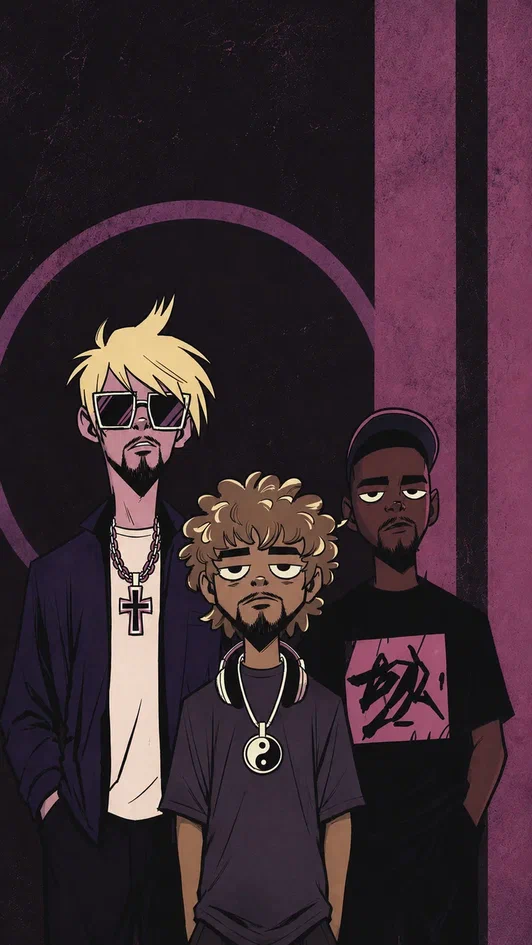
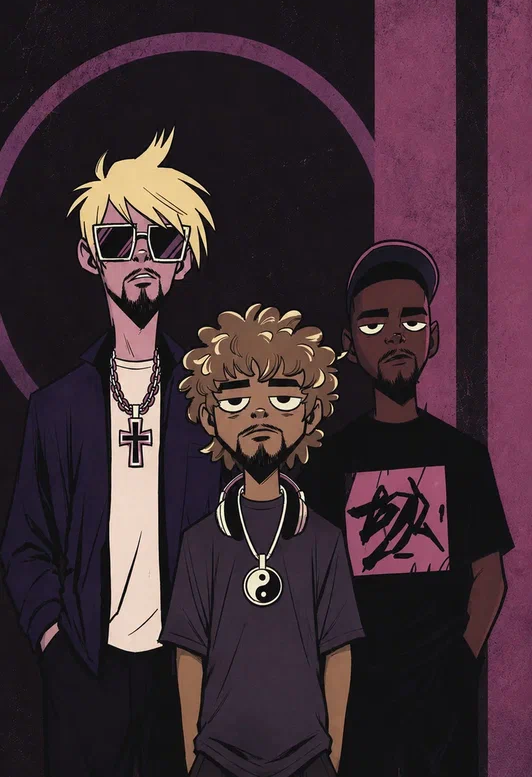
Rework player: ghost btn on hero cover, progress bar, fix Yandex label

diff --git a/index.html b/index.html
@@ -193,7 +193,7 @@
 
     .hero-cover {
       width: 100%; height: 100%;
-      object-fit: cover; object-position: top center;
+      object-fit: cover; object-position: center 30%;
       display: block;
     }
 
@@ -203,6 +203,31 @@
       background: linear-gradient(to right, var(--bg) 0%, transparent 35%),
                   linear-gradient(to top, var(--bg) 0%, transparent 25%);
     }
+
+    /* play button on cover */
+    .hero-play-wrap {
+      position: absolute; inset: 0; z-index: 10;
+      display: flex; align-items: center; justify-content: center;
+    }
+    .hero-play-btn {
+      width: 76px; height: 76px; border-radius: 50%;
+      background: rgba(255,255,255,0.08);
+      border: 2px solid rgba(255,255,255,0.55);
+      backdrop-filter: blur(6px);
+      cursor: pointer;
+      display: flex; align-items: center; justify-content: center;
+      transition: background .3s, border-color .3s, transform .25s, box-shadow .35s;
+    }
+    .hero-play-btn:hover {
+      background: rgba(255,255,255,0.16);
+      border-color: rgba(255,255,255,.9);
+      transform: scale(1.1);
+      box-shadow: 0 0 50px var(--glow);
+    }
+    .hero-play-btn svg { fill: #fff; width: 30px; height: 30px; }
+    .hero-play-btn .icon-pause { display: none; }
+    .hero-play-btn.playing .icon-play  { display: none; }
+    .hero-play-btn.playing .icon-pause { display: block; }
 
     .scroll-hint {
       position: absolute; bottom: 32px; left: 50%; transform: translateX(-50%);
@@ -288,55 +313,53 @@
     .p-vk      { --pc:#4a76a8; --pr:74,118,168;  }
     .p-apple   { --pc:#fa243c; --pr:250,36,60;   }
 
-    /* ─── VISUALIZER ─── */
-    #vis {
-      padding: 70px 0;
-      border-top: 1px solid var(--gb);
+    /* ─── PLAYER BAR ─── */
+    #player-section {
       border-bottom: 1px solid var(--gb);
-      text-align: center; position: relative; overflow: hidden;
     }
-    #vis::before {
-      content: ''; position: absolute; inset: 0;
-      background: radial-gradient(ellipse at 50% 50%, rgba(176,48,184,.05) 0%, transparent 65%);
+    .player-bar-wrap {
+      max-width: 1080px; margin: 0 auto;
+      padding: 18px 48px 20px;
     }
-    #vis-bars {
-      display: flex; align-items: flex-end; justify-content: center;
-      gap: 3px; height: 56px; margin: 0 auto 30px;
-      position: relative; z-index: 1;
+    @media (max-width: 600px) { .player-bar-wrap { padding: 14px 24px 16px; } }
+
+    .player-bar-head {
+      display: flex; align-items: center; justify-content: space-between;
+      margin-bottom: 10px;
     }
-    .vbar {
-      width: 4px; border-radius: 2px 2px 0 0;
-      background: var(--accent); opacity: .65; height: 4px;
+    .player-label {
+      font-size: 10px; font-weight: 600; letter-spacing: 4px;
+      text-transform: uppercase; color: var(--accent);
     }
-    .vbar.on {
-      animation: barBounce var(--d,.7s) ease-in-out infinite alternate;
+    .player-times {
+      font-size: 11px; color: var(--muted);
+      font-variant-numeric: tabular-nums; letter-spacing: 1px;
+      display: flex; gap: 4px;
     }
+    .slash { opacity: .3; }
+
+    .progress-wrap {
+      height: 3px; background: rgba(255,255,255,.08);
+      cursor: pointer; position: relative;
+    }
+    .progress-fill {
+      height: 100%; background: var(--accent); width: 0%;
+      transition: width .1s linear; pointer-events: none;
+    }
+    .progress-wrap:hover .progress-fill { background: #fff; }
+
+    .player-vis {
+      display: flex; align-items: flex-end; gap: 3px;
+      height: 24px; margin-top: 12px;
+    }
+    .pv-bar {
+      width: 3px; border-radius: 2px 2px 0 0;
+      background: var(--accent); height: 3px; opacity: .45;
+    }
+    .pv-bar.on { animation: barBounce var(--d,.7s) ease-in-out infinite alternate; }
     @keyframes barBounce {
-      from { height: 4px; opacity: .3; }
-      to   { height: var(--h,36px); opacity: .95; }
-    }
-    .btn-play {
-      display: inline-flex; align-items: center; gap: 12px;
-      padding: 13px 36px;
-      border: 1px solid var(--gb); background: var(--glass);
-      color: var(--text); font-family: 'Space Grotesk', sans-serif;
-      font-size: 11px; font-weight: 600; letter-spacing: 4px;
-      text-transform: uppercase; cursor: pointer;
-      backdrop-filter: blur(12px); position: relative; z-index: 1;
-      transition: border-color .3s, box-shadow .35s, color .3s;
-    }
-    .btn-play:hover {
-      border-color: var(--accent);
-      box-shadow: 0 0 36px var(--glow);
-      color: var(--accent);
-    }
-    .pdot {
-      width: 7px; height: 7px; background: var(--accent); border-radius: 50%;
-      animation: pdotPulse 1.6s ease-in-out infinite; flex-shrink: 0;
-    }
-    @keyframes pdotPulse {
-      0%,100%{ transform:scale(1); opacity:1;    }
-      50%    { transform:scale(1.8); opacity:.35; }
+      from { height: 3px; opacity: .2; }
+      to   { height: var(--h,18px); opacity: .8; }
     }
 
     /* ─── ANNOUNCEMENTS ─── */
@@ -504,26 +527,6 @@
     }
     .btn-s-close:hover { color: var(--text); }
 
-    /* ─── SOUND BUTTON ─── */
-    #sound-btn {
-      position: fixed; bottom: 28px; right: 28px; z-index: 8000;
-      width: 44px; height: 44px;
-      background: var(--glass); border: 1px solid var(--gb);
-      backdrop-filter: blur(14px);
-      display: flex; align-items: center; justify-content: center;
-      cursor: pointer; transition: border-color .3s, box-shadow .3s;
-      opacity: 0; animation: fadeIn 1s 2s forwards;
-    }
-    #sound-btn:hover {
-      border-color: var(--accent);
-      box-shadow: 0 0 24px var(--glow);
-    }
-    #sound-btn svg { width: 18px; height: 18px; fill: rgba(240,236,228,.6); transition: fill .25s; }
-    #sound-btn:hover svg { fill: var(--text); }
-    #sound-btn.muted svg.icon-on  { display: none;  }
-    #sound-btn.muted svg.icon-off { display: block; }
-    #sound-btn:not(.muted) svg.icon-on  { display: block; }
-    #sound-btn:not(.muted) svg.icon-off { display: none;  }
 
     /* ─── UTILS ─── */
     @keyframes up     { to { opacity:1; transform:translateY(0); } }
@@ -541,20 +544,7 @@
 <!-- Film grain -->
 <canvas id="grain"></canvas>
 
-<!-- Background audio -->
-<audio id="bg-audio" src="musik/theme.mp3" loop preload="auto"></audio>
-
-<!-- Sound toggle -->
-<button id="sound-btn" class="muted" aria-label="Toggle sound">
-  <!-- sound on -->
-  <svg class="icon-on" viewBox="0 0 24 24" xmlns="http://www.w3.org/2000/svg">
-    <path d="M3 9v6h4l5 5V4L7 9H3zm13.5 3c0-1.77-1.02-3.29-2.5-4.03v8.05c1.48-.73 2.5-2.25 2.5-4.02zM14 3.23v2.06c2.89.86 5 3.54 5 6.71s-2.11 5.85-5 6.71v2.06c4.01-.91 7-4.49 7-8.77s-2.99-7.86-7-8.77z"/>
-  </svg>
-  <!-- sound off -->
-  <svg class="icon-off" viewBox="0 0 24 24" xmlns="http://www.w3.org/2000/svg">
-    <path d="M16.5 12c0-1.77-1.02-3.29-2.5-4.03v2.21l2.45 2.45c.03-.2.05-.41.05-.63zm2.5 0c0 .94-.2 1.82-.54 2.64l1.51 1.51C20.63 14.91 21 13.5 21 12c0-4.28-2.99-7.86-7-8.77v2.06c2.89.86 5 3.54 5 6.71zM4.27 3L3 4.27 7.73 9H3v6h4l5 5v-6.73l4.25 4.25c-.67.52-1.42.93-2.25 1.18v2.06c1.38-.31 2.63-.95 3.69-1.81L19.73 21 21 19.73l-9-9L4.27 3zM12 4L9.91 6.09 12 8.18V4z"/>
-  </svg>
-</button>
+<audio id="player-audio" src="musik/theme.mp3" preload="auto"></audio>
 
 <!-- ═══ NAV ═══ -->
 <nav id="nav">
@@ -586,6 +576,12 @@
 
   <div class="hero-right">
     <img src="Image/cover.png" alt="TheЦех" class="hero-cover">
+    <div class="hero-play-wrap">
+      <button class="hero-play-btn" id="play-btn" aria-label="Play / Pause">
+        <svg class="icon-play" viewBox="0 0 24 24"><path d="M8 5v14l11-7z"/></svg>
+        <svg class="icon-pause" viewBox="0 0 24 24"><path d="M6 19h4V5H6v14zm8-14v14h4V5h-4z"/></svg>
+      </button>
+    </div>
   </div>
 
   <div class="scroll-hint"><span></span></div>
@@ -615,7 +611,7 @@
         </div>
         <div class="pcard-info">
           <span class="pcard-name">Яндекс Музыка</span>
-          <span class="pcard-desc">Слушать в России</span>
+          <span class="pcard-desc">Слушать на Яндекс</span>
         </div>
         <span class="pcard-arr">→</span>
       </a>
@@ -645,13 +641,22 @@
   </div>
 </section>
 
-<!-- ═══ VISUALIZER ═══ -->
-<section id="vis">
-  <div id="vis-bars"></div>
-  <button class="btn-play" id="btn-play">
-    <span class="pdot"></span>
-    <span id="btn-play-txt">Play Snippet</span>
-  </button>
+<!-- ═══ PLAYER PROGRESS ═══ -->
+<section id="player-section">
+  <div class="player-bar-wrap">
+    <div class="player-bar-head">
+      <span class="player-label">TheЦех — postaralis</span>
+      <div class="player-times">
+        <span id="time-cur">0:00</span>
+        <span class="slash">/</span>
+        <span id="time-dur">—</span>
+      </div>
+    </div>
+    <div class="progress-wrap" id="progress-wrap">
+      <div class="progress-fill" id="progress-fill"></div>
+    </div>
+    <div class="player-vis" id="player-vis"></div>
+  </div>
 </section>
 
 <!-- ═══ ANNOUNCEMENTS ═══ -->
@@ -727,14 +732,14 @@
   <div class="section-wrap">
     <div class="tg-card reveal">
       <span class="tg-star">✦</span>
-      <p class="tg-badge">Private Zone</p>
+      <p class="tg-badge">Закрытая зона</p>
       <h3 class="tg-heading">Telegram Fan Zone</h3>
       <ul class="tg-list">
-        <li>Unreleased demos</li>
-        <li>Backstage footage</li>
-        <li>Exclusive drops</li>
-        <li>Snippets before release</li>
-        <li>Анонсы первым</li>
+        <li>Треки до релиза</li>
+        <li>Бэкстейдж и съёмки</li>
+        <li>Эксклюзивные дропы</li>
+        <li>Сниппеты первым</li>
+        <li>Анонсы раньше всех</li>
       </ul>
       <a href="https://t.me/the_tseh_official" class="btn-tg" target="_blank" rel="noopener">
         Войти в канал
@@ -796,27 +801,63 @@
   }, { passive: true });
 })();
 
-/* ── Visualizer bars ── */
+/* ── Player ── */
 (function () {
-  const wrap = document.getElementById('vis-bars');
-  const N = 44;
+  const audio   = document.getElementById('player-audio');
+  const btn     = document.getElementById('play-btn');
+  const fill    = document.getElementById('progress-fill');
+  const wrap    = document.getElementById('progress-wrap');
+  const timeCur = document.getElementById('time-cur');
+  const timeDur = document.getElementById('time-dur');
+  const visWrap = document.getElementById('player-vis');
+
   const bars = [];
-  for (let i = 0; i < N; i++) {
+  for (let i = 0; i < 28; i++) {
     const b = document.createElement('div');
-    b.className = 'vbar';
-    const hh = (Math.abs(Math.sin(i * 0.38 + 1)) * 30 + Math.random() * 20 + 6) | 0;
-    b.style.setProperty('--h', hh + 'px');
-    b.style.setProperty('--d', (.32 + Math.random() * .6).toFixed(2) + 's');
-    wrap.appendChild(b); bars.push(b);
+    b.className = 'pv-bar';
+    const h = (Math.abs(Math.sin(i * 0.45 + 0.8)) * 16 + Math.random() * 8 + 4) | 0;
+    b.style.setProperty('--h', h + 'px');
+    b.style.setProperty('--d', (.3 + Math.random() * .55).toFixed(2) + 's');
+    visWrap.appendChild(b); bars.push(b);
   }
-  let on = false;
-  document.getElementById('btn-play').addEventListener('click', () => {
-    on = !on;
+
+  function fmt(s) {
+    return Math.floor(s / 60) + ':' + String(Math.floor(s % 60)).padStart(2, '0');
+  }
+
+  function setBars(on) {
     bars.forEach(b => {
-      if (on) { b.style.animationDelay = (Math.random() * .45).toFixed(2) + 's'; b.classList.add('on'); }
-      else     { b.classList.remove('on'); b.style.height = '4px'; }
+      if (on) { b.style.animationDelay = (Math.random() * .4).toFixed(2) + 's'; b.classList.add('on'); }
+      else    { b.classList.remove('on'); }
     });
-    document.getElementById('btn-play-txt').textContent = on ? 'Pause' : 'Play Snippet';
+  }
+
+  btn.addEventListener('click', () => {
+    if (audio.paused) {
+      audio.play().then(() => { btn.classList.add('playing'); setBars(true); }).catch(() => {});
+    } else {
+      audio.pause();
+      btn.classList.remove('playing');
+      setBars(false);
+    }
+  });
+
+  audio.addEventListener('timeupdate', () => {
+    if (!audio.duration) return;
+    fill.style.width = (audio.currentTime / audio.duration * 100) + '%';
+    timeCur.textContent = fmt(audio.currentTime);
+  });
+
+  audio.addEventListener('loadedmetadata', () => { timeDur.textContent = fmt(audio.duration); });
+
+  audio.addEventListener('ended', () => {
+    btn.classList.remove('playing'); setBars(false);
+    fill.style.width = '0%'; timeCur.textContent = '0:00';
+  });
+
+  wrap.addEventListener('click', (e) => {
+    if (!audio.duration) return;
+    audio.currentTime = ((e.clientX - wrap.getBoundingClientRect().left) / wrap.offsetWidth) * audio.duration;
   });
 })();
 
@@ -837,40 +878,6 @@
   modal.addEventListener('click', e => { if (e.target === modal) modal.classList.remove('open'); });
 })();
 
-/* ── Background audio ── */
-(function () {
-  const audio = document.getElementById('bg-audio');
-  const btn   = document.getElementById('sound-btn');
-  let started = false;
-
-  audio.volume = 0.18;
-
-  function start() {
-    if (started) return;
-    started = true;
-    audio.play().then(() => {
-      btn.classList.remove('muted');
-    }).catch(() => {});
-  }
-
-  /* запускаем при первом касании страницы */
-  ['click','touchstart','keydown'].forEach(ev =>
-    document.addEventListener(ev, start, { once: true, passive: true })
-  );
-
-  /* кнопка mute/unmute */
-  btn.addEventListener('click', (e) => {
-    e.stopPropagation();
-    if (!started) { start(); return; }
-    if (audio.paused) {
-      audio.play();
-      btn.classList.remove('muted');
-    } else {
-      audio.pause();
-      btn.classList.add('muted');
-    }
-  });
-})();
 
 /* ── Scroll reveal ── */
 (function () {